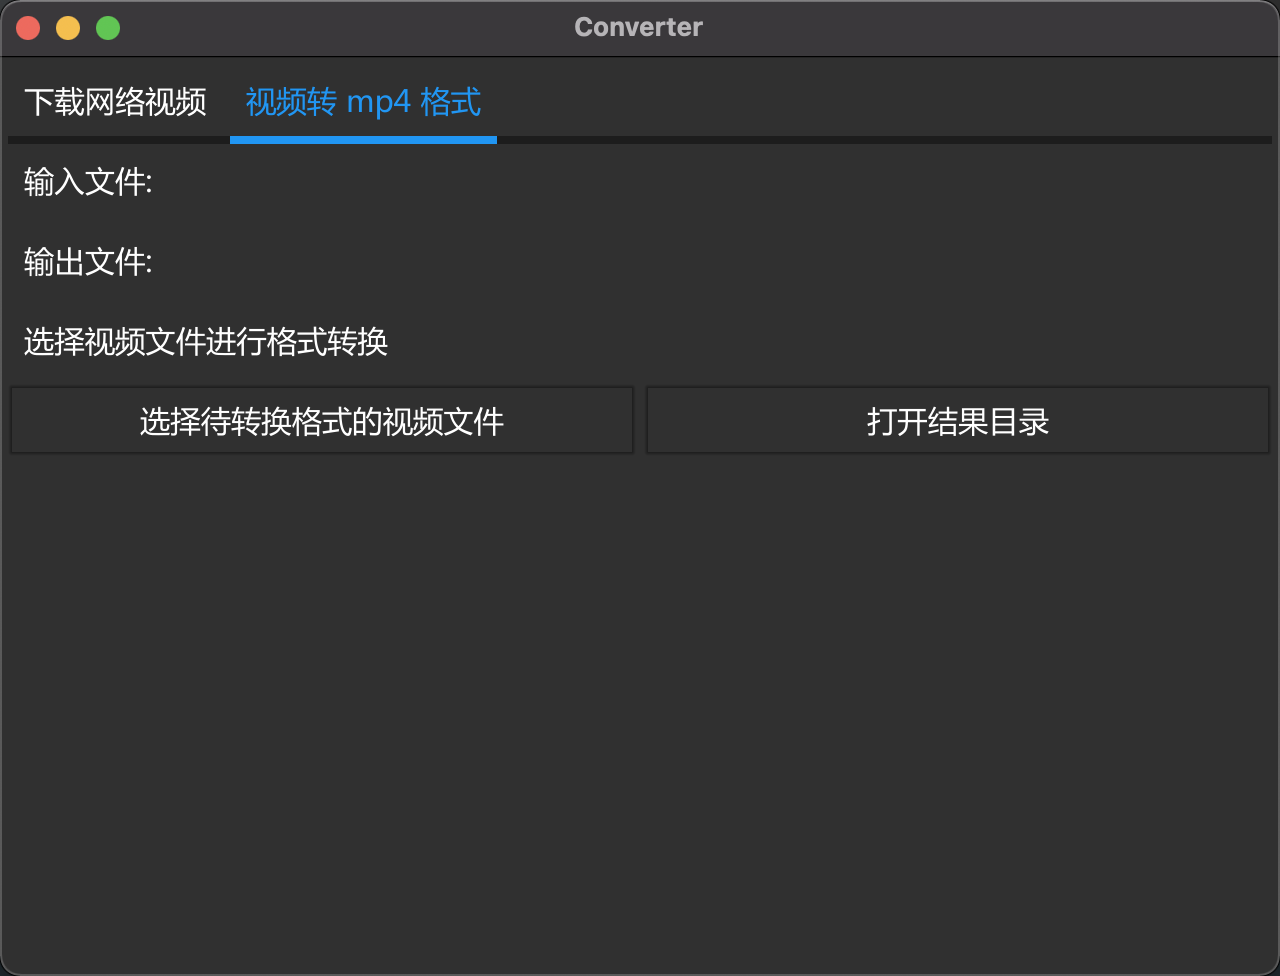
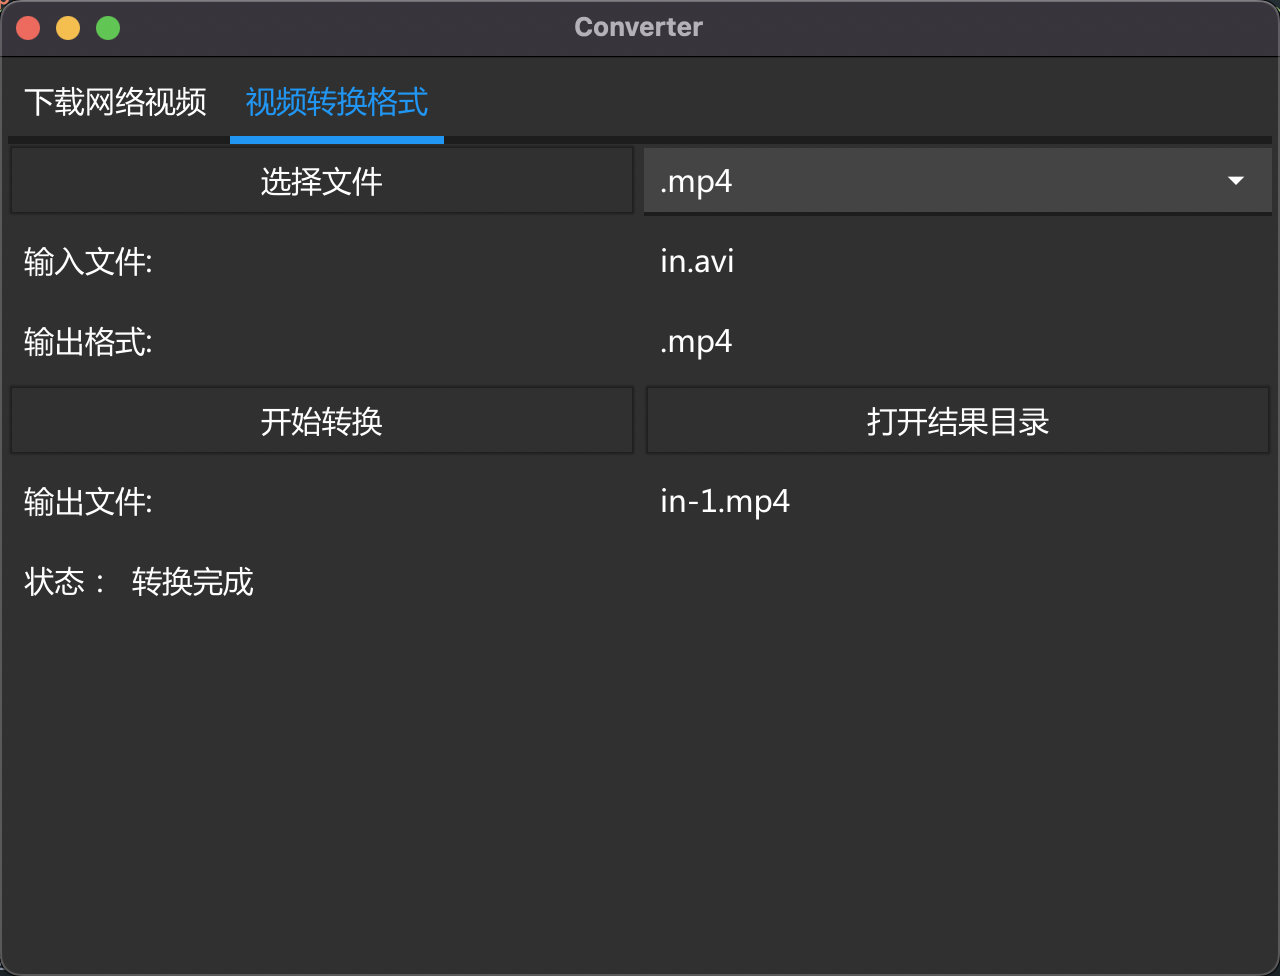
feat: 支持任意视频格式输出

diff --git a/cmd/gui/main.go b/cmd/gui/main.go
@@ -1,6 +1,7 @@
 package main
 
 import (
+	"errors"
 	"fmt"
 	"fyne.io/fyne/v2"
 	"fyne.io/fyne/v2/app"
@@ -36,7 +37,7 @@ func main() {
 	w := a.NewWindow("Converter")
 	tabs := container.NewAppTabs(
 		container.NewTabItem("下载网络视频", downloadVideoBox(w)),
-		container.NewTabItem("视频转 mp4 格式", convertVideoBox(w)),
+		container.NewTabItem("视频转换格式", convertVideoBox(w)),
 	)
 
 	w.SetContent(tabs)
@@ -116,33 +117,74 @@ func convertVideoBox(w fyne.Window) (box *fyne.Container) {
 	var (
 		selectFile     string
 		selectFileName = binding.NewString()
+		outputExt      = binding.NewString()
 		outputFile     string
 		outputFileName = binding.NewString()
-		statusText     = NewStatusText("选择视频文件进行格式转换")
+		statusText     = NewStatusText("未开始")
 	)
 	downloadDir, err := converter.GetCurrentDir()
 	if err != nil {
 		dialog.ShowError(err, w)
 		return
 	}
-	openDirButton := widget.NewButton("打开结果目录", func() {
-		converter.OpenSystemDir(downloadDir)
-	})
-	selectFileButton := widget.NewButton("选择待转换格式的视频文件", func() {
-		fd := dialog.NewFileOpen(func(reader fyne.URIReadCloser, err error) {
+
+	box.Add(container.NewGridWithColumns(2,
+		// 选择文件按钮
+		widget.NewButton("选择文件", func() {
+			fd := dialog.NewFileOpen(func(reader fyne.URIReadCloser, err error) {
+				if err != nil {
+					dialog.ShowError(err, w)
+					return
+				}
+				if reader == nil {
+					log.Println("Cancelled")
+					return
+				}
+				selectFile = reader.URI().Path()
+				_ = selectFileName.Set(filepath.Base(selectFile))
+			}, w)
+			fd.SetFilter(storage.NewExtensionFileFilter(converter.GetSupportVideoExtensions()))
+			d, err := CurrentDir()
 			if err != nil {
 				dialog.ShowError(err, w)
 				return
 			}
-			if reader == nil {
-				log.Println("Cancelled")
+			fd.SetLocation(d)
+			fd.Show()
+		}),
+		// 选择输出格式
+		func() *widget.Select {
+			s := widget.NewSelect(converter.GetSupportVideoExtensions(), func(s string) {
+				_ = outputExt.Set(s)
+			})
+			s.PlaceHolder = "选择输出格式"
+			return s
+		}(),
+	))
+
+	box.Add(container.NewGridWithColumns(2,
+		widget.NewLabel("输入文件: "),
+		widget.NewLabelWithData(selectFileName)),
+	)
+	box.Add(container.NewGridWithColumns(2,
+		widget.NewLabel("输出格式: "),
+		widget.NewLabelWithData(outputExt)),
+	)
+	box.Add(container.NewGridWithColumns(2,
+		// 开始转换按钮
+		widget.NewButton("开始转换", func() {
+			if selectFile == "" {
+				dialog.ShowError(errors.New("请选择输入文件"), w)
 				return
 			}
-			selectFile = reader.URI().Path()
-			_ = selectFileName.Set(filepath.Base(selectFile))
+			if ext, _ := outputExt.Get(); ext == "" {
+				dialog.ShowError(errors.New("请选择输出格式"), w)
+				return
+			}
 			processWriter := &strings.Builder{}
 			statusText.SetInProcess("转换中")
-			outputFile, err = converter.ConvertVideo(reader.URI().Path(), downloadDir, processWriter)
+			ext, _ := outputExt.Get()
+			outputFile, err = converter.ConvertVideo(selectFile, ext, downloadDir, processWriter)
 			if err != nil {
 				statusText.Set("转换失败: " + err.Error())
 				dialog.ShowError(err, w)
@@ -155,27 +197,20 @@ func convertVideoBox(w fyne.Window) (box *fyne.Container) {
 					}
 				}, w)
 			}
-		}, w)
-		fd.SetFilter(storage.NewExtensionFileFilter(converter.GetSupportVideoExtensions()))
-		d, err := CurrentDir()
-		if err != nil {
-			dialog.ShowError(err, w)
-			return
-		}
-		fd.SetLocation(d)
-		fd.Show()
-	})
-
-	box.Add(container.NewGridWithColumns(2,
-		widget.NewLabel("输入文件: "),
-		widget.NewLabelWithData(selectFileName)),
-	)
+		}),
+		// 打开文件夹
+		widget.NewButton("打开结果目录", func() {
+			converter.OpenSystemDir(downloadDir)
+		}),
+	))
 	box.Add(container.NewGridWithColumns(2,
 		widget.NewLabel("输出文件: "),
 		widget.NewLabelWithData(outputFileName)),
 	)
-	box.Add(statusText.Widget)
-	box.Add(container.NewGridWithColumns(2, selectFileButton, openDirButton))
+	box.Add(container.NewGridWrap(fyne.NewSize(50, 20),
+		widget.NewLabel("状态："),
+		statusText.Widget,
+	))
 
 	return
 }

diff --git a/converter-video.go b/converter-video.go
@@ -19,8 +19,8 @@ func init() {
 	}
 }
 
-func ConvertVideo(file string, toDir string, write io.Writer) (string, error) {
-	outFile := getNoExistMP4Filename(filepath.Join(toDir, filepath.Base(file)))
+func ConvertVideo(file string, outputExt string, toDir string, write io.Writer) (string, error) {
+	outFile := getNoExistFilename(filepath.Join(toDir, filepath.Base(file)), outputExt)
 	if err := convertFile(file, outFile); err != nil {
 		return "", fmt.Errorf("convert file=%s: %w", file, err)
 	}
@@ -52,10 +52,10 @@ func convertFile(inFile string, outFile string) error {
 }
 
 // 获取一个不存在的 mp4 文件名
-func getNoExistMP4Filename(file string) string {
+func getNoExistFilename(file string, outputExt string) string {
 	var index int
 	for {
-		newFile := getMP4FileName(file, index)
+		newFile := getMP4FileName(file, index, outputExt)
 		if exist, _ := isFileExists(newFile); exist {
 			index++
 		} else {
@@ -64,9 +64,9 @@ func getNoExistMP4Filename(file string) string {
 	}
 }
 
-func getMP4FileName(file string, index int) string {
+func getMP4FileName(file string, index int, outputExt string) string {
 	if index == 0 {
-		return strings.TrimSuffix(file, filepath.Ext(file)) + ".mp4"
+		return strings.TrimSuffix(file, filepath.Ext(file)) + outputExt
 	}
-	return fmt.Sprintf("%s-%d.mp4", strings.TrimSuffix(file, filepath.Ext(file)), index)
+	return fmt.Sprintf("%s-%d%s", strings.TrimSuffix(file, filepath.Ext(file)), index, outputExt)
 }

diff --git a/util.go b/util.go
@@ -57,6 +57,7 @@ var SupportVideoExtensions = map[string]bool{
 	".dat":  true,
 	".ogg":  true,
 	".ts":   true,
+	".mp4":  true,
 }
 
 func GetSupportVideoExtensions() []string {

diff --git a/README.md b/README.md
@@ -2,11 +2,9 @@
 
 程序可编译在 Windows、Mac 平台运行。
 
-基于 ffmpeg 实现的将当前目录下所有非 mp4 视频文件转码为 mp4 文件。
+基于 ffmpeg 实现视频格式转换。
 
 基于 lux 项目实现的网络视频下载功能。
-
-in.avi 为测试视频，运行程序后将会生成 in.mp4 文件。生成文件不会覆盖，注意及时移走不需要转码的非 mp4 文件。
 
 build/dependencies/ffmpeg-win 是 windows 下的 ffmpeg 可执行程序，版本为 5.0.1。
 
@@ -14,9 +12,9 @@ build/dependencies/ffmpeg-win 是 windows 下的 ffmpeg 可执行程序，版本
 
 ## 路线
 
-- 兼容性测试，需要支持 Mac + Win7 及以上操作系统
+- [x] 兼容性测试，需要支持 Mac + Win7 及以上操作系统 (Windows 需要 OpenGL 支持才能正常运行)
 - 下载文件名信息、进度显示
-- 视频格式转换支持输入输出任意视频格式
+- [x] 视频格式转换支持输入输出任意视频格式
 - 搞定 Mac M1 编译 Windows 执行文件
 - 隐藏启动 GUI 后的命令行程序
 - 可能会更换 GUI 实现，例如换为 Electron、Rust 等
@@ -67,9 +65,9 @@ build/dependencies/ffmpeg-win 是 windows 下的 ffmpeg 可执行程序，版本
 | 喜马拉雅   | <https://www.ximalaya.com>   |           |           | ✓        |             |                   | [![ximalaya](https://github.com/iawia002/lux/actions/workflows/stream_ximalaya.yml/badge.svg)](https://github.com/iawia002/lux/actions/workflows/stream_ximalaya.yml)       |
 | 快手       | <https://www.kuaishou.com>   | ✓         |           |          |             |                   | [![kuaishou](https://github.com/iawia002/lux/actions/workflows/stream_kuaishou.yml/badge.svg)](https://github.com/iawia002/lux/actions/workflows/stream_kuaishou.yml)       |
 
-### 视频转为 mp4 格式
+### 视频转换格式
 
-![视频转为 mp4 格式](./data/video-download.png)
+![视频转为 mp4 格式](./data/video-convert.png)
 
 ## 下载
 
@@ -95,7 +93,7 @@ make build
 
 ### 发包
 
-由于开发机是 M1 Mac, fyne 跨平台编译 Windows 始终成功不了，需要使用 Windows 主机编译 exe 文件，然后在 release 进行打包。 
+由于开发机是 M1 Mac, fyne 跨平台编译 Windows 始终成功不了，需要使用 Windows 主机编译 exe 文件，然后在 release 进行打包。
 
 ```shell
 make release
